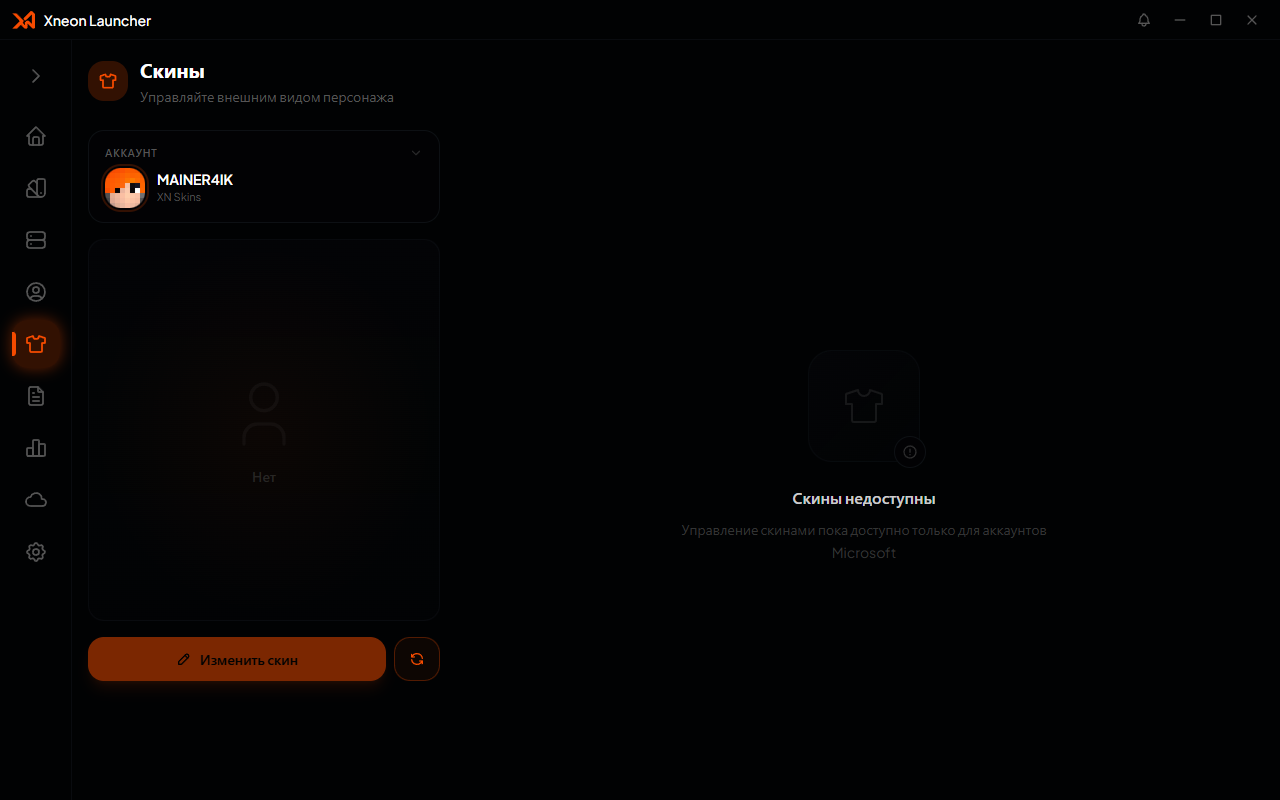
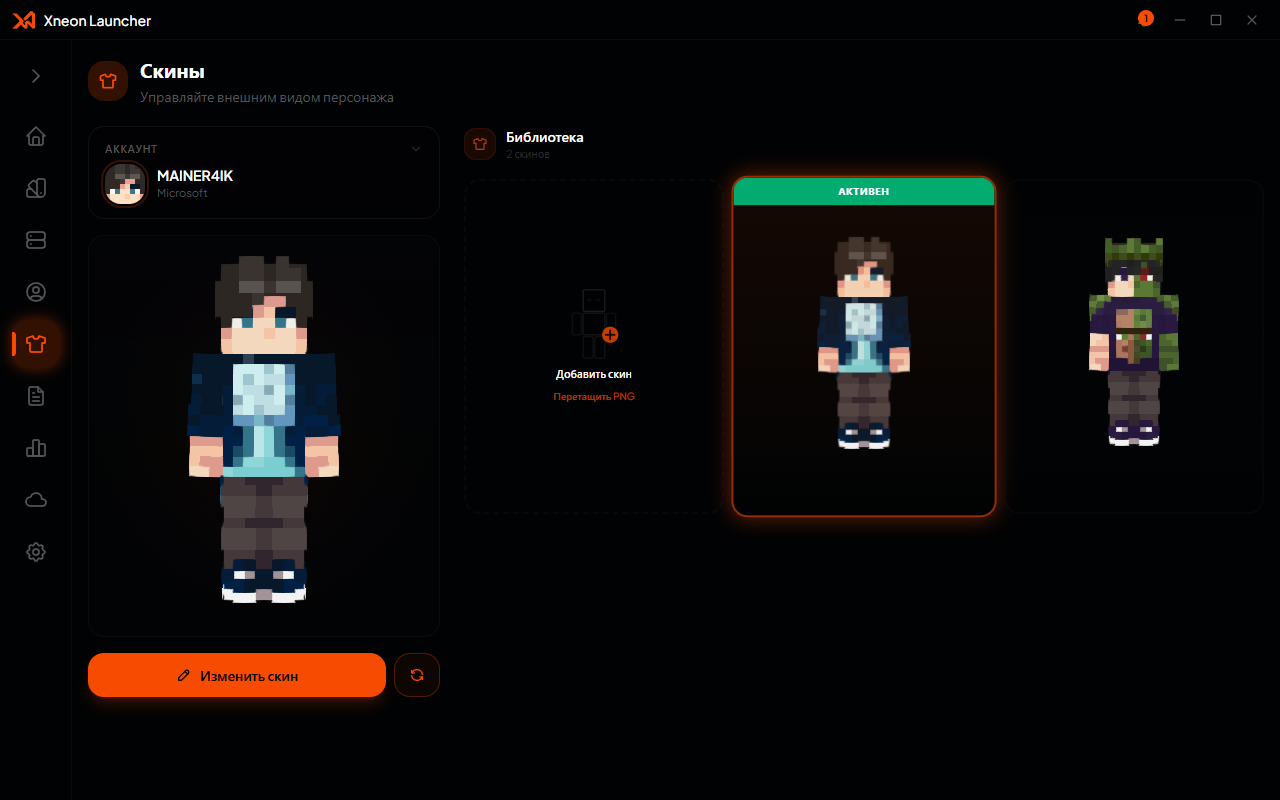
docs: пересъёмка битых скриншотов и скины с аккаунтом Microsoft
- builds.png и build-general.png были сняты в момент отрисовки (почти чёрный кадр) — пересняты
- skins.png снят с активным аккаунтом Microsoft: превью, библиотека и смена скина
- подпись к скриншоту скинов уточнена

diff --git a/RELEASE_1.0.6_CHANGELOG.md b/RELEASE_1.0.6_CHANGELOG.md
@@ -59,7 +59,7 @@
 **Аккаунты** — Microsoft, Ely.by, XN Skins и оффлайн-аккаунты
 ![Аккаунты](docs/screenshots/1.0.6/accounts.png)
 
-**Скины** — просмотр и смена скина, библиотека
+**Скины** — с активным аккаунтом Microsoft: превью персонажа, библиотека и смена скина
 ![Скины](docs/screenshots/1.0.6/skins.png)
 
 **Настройки: Игра** — разрешение, память, автоподключение
